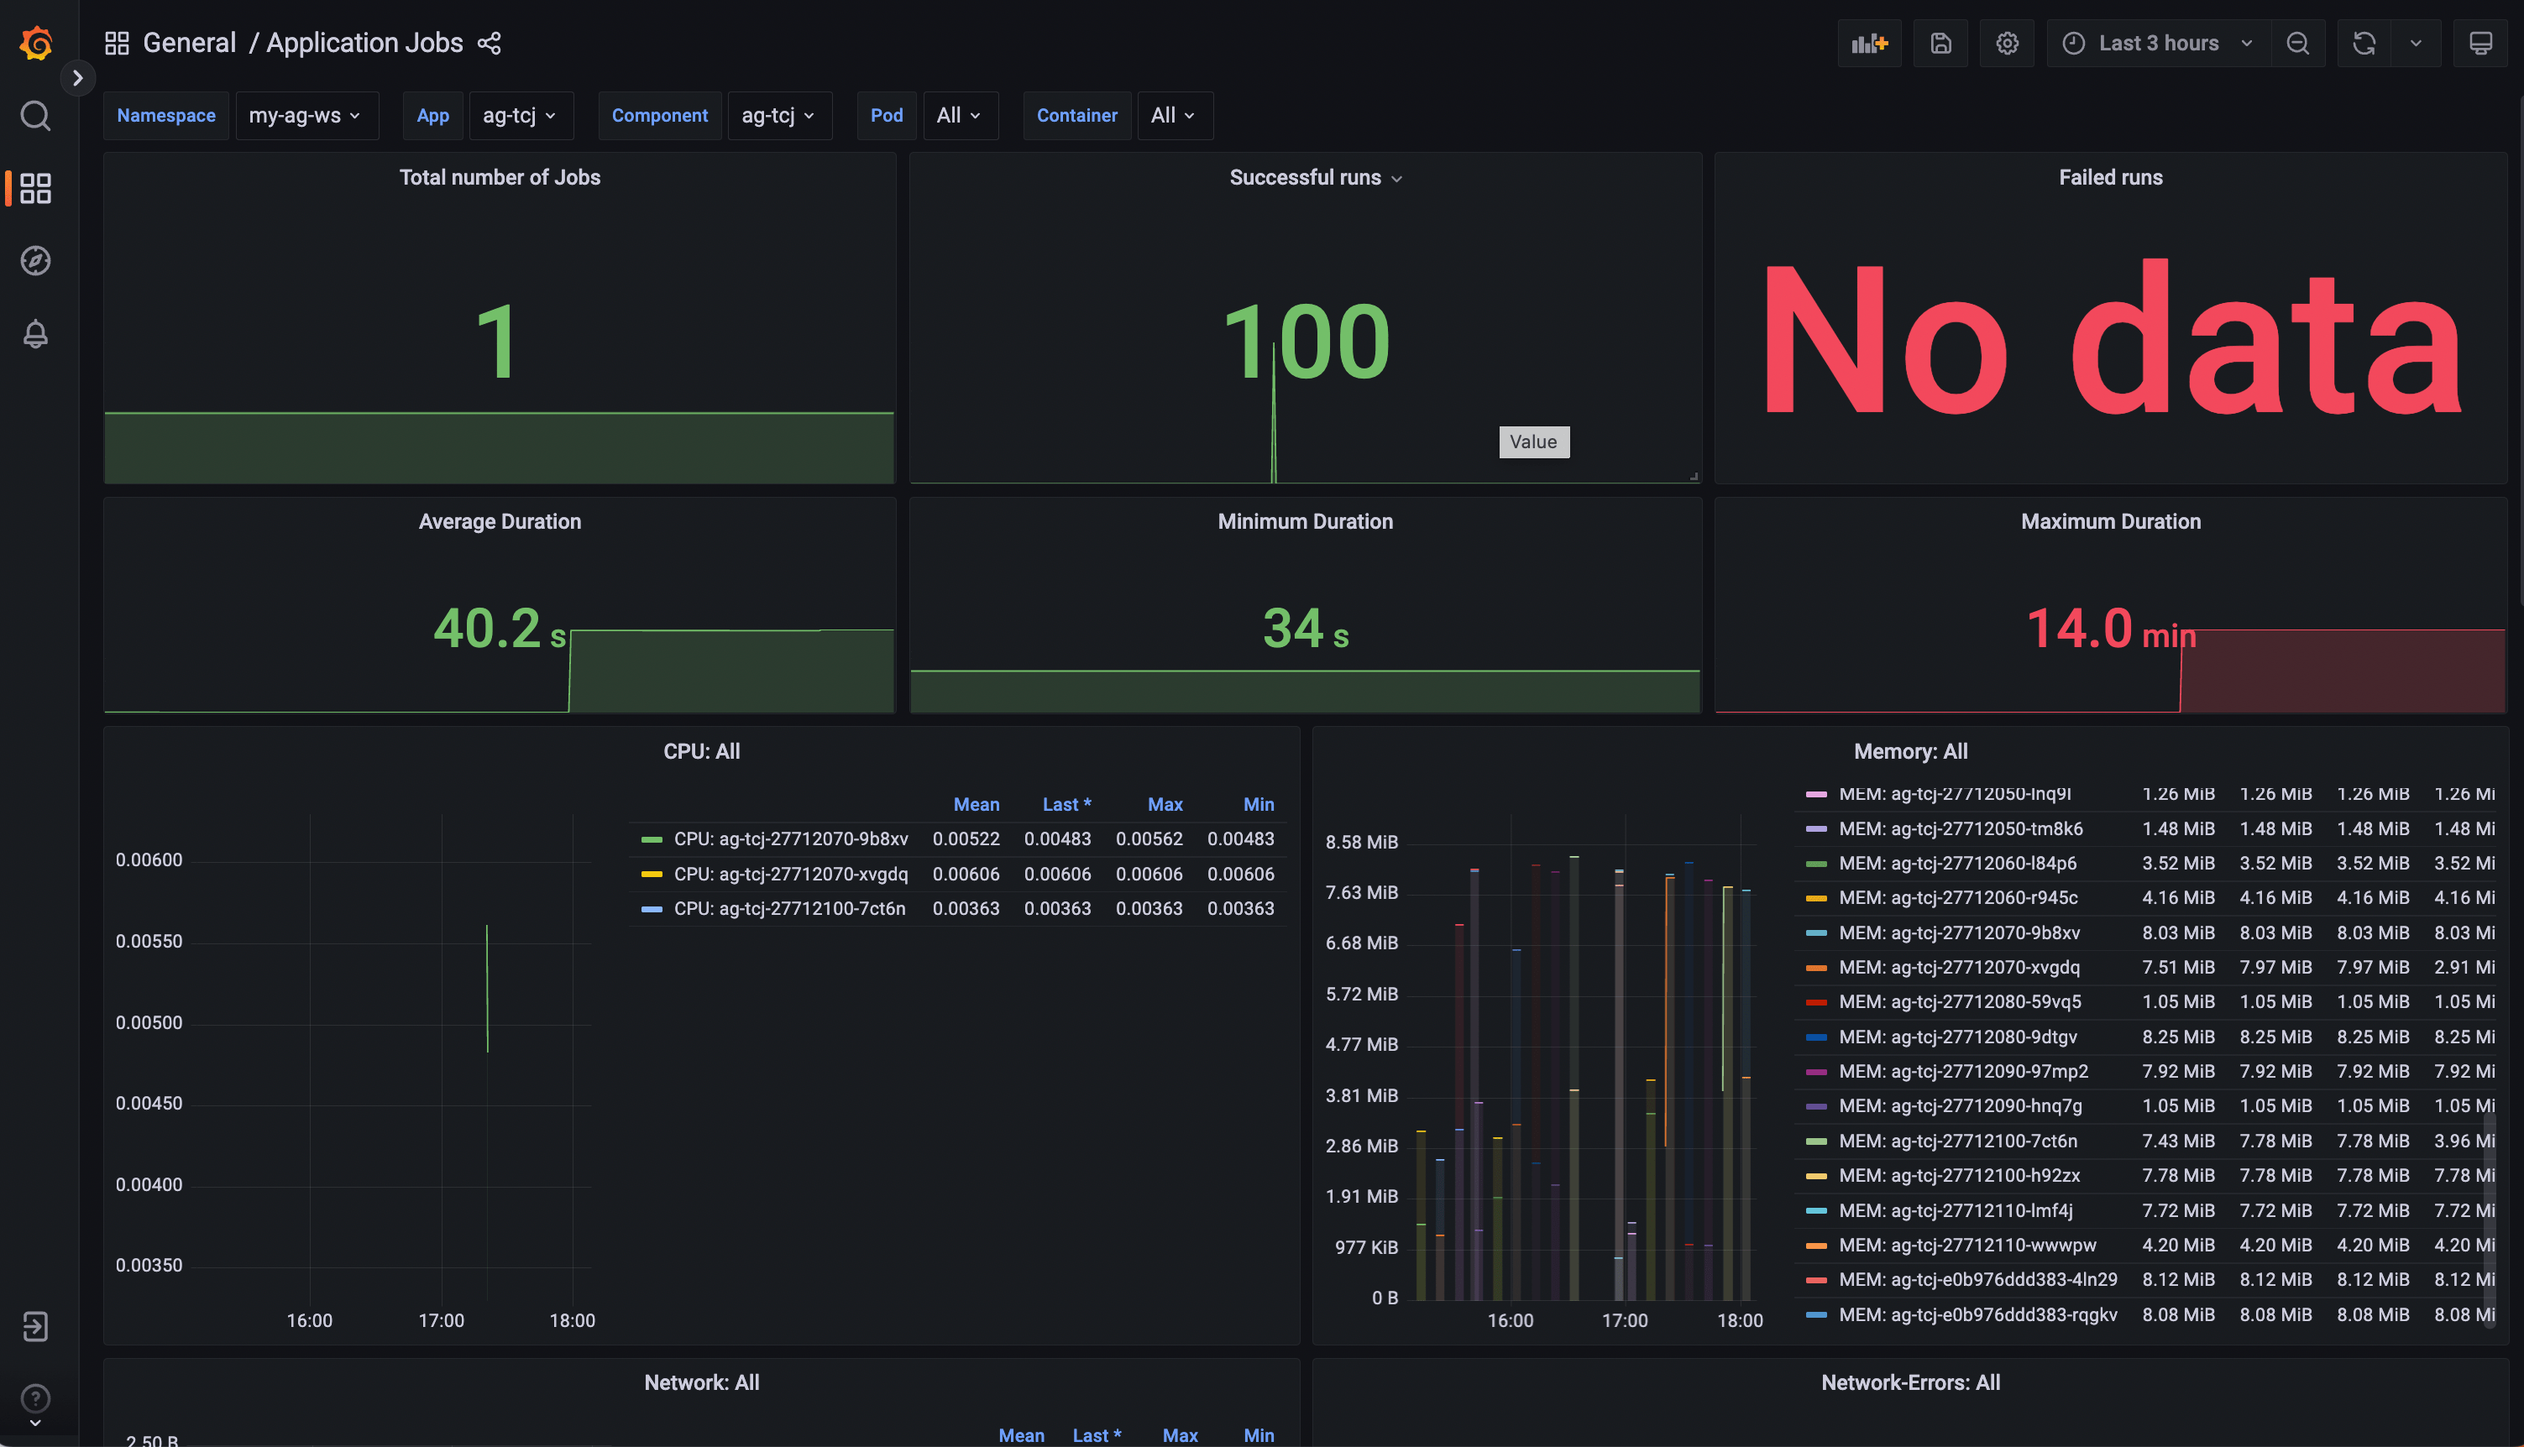
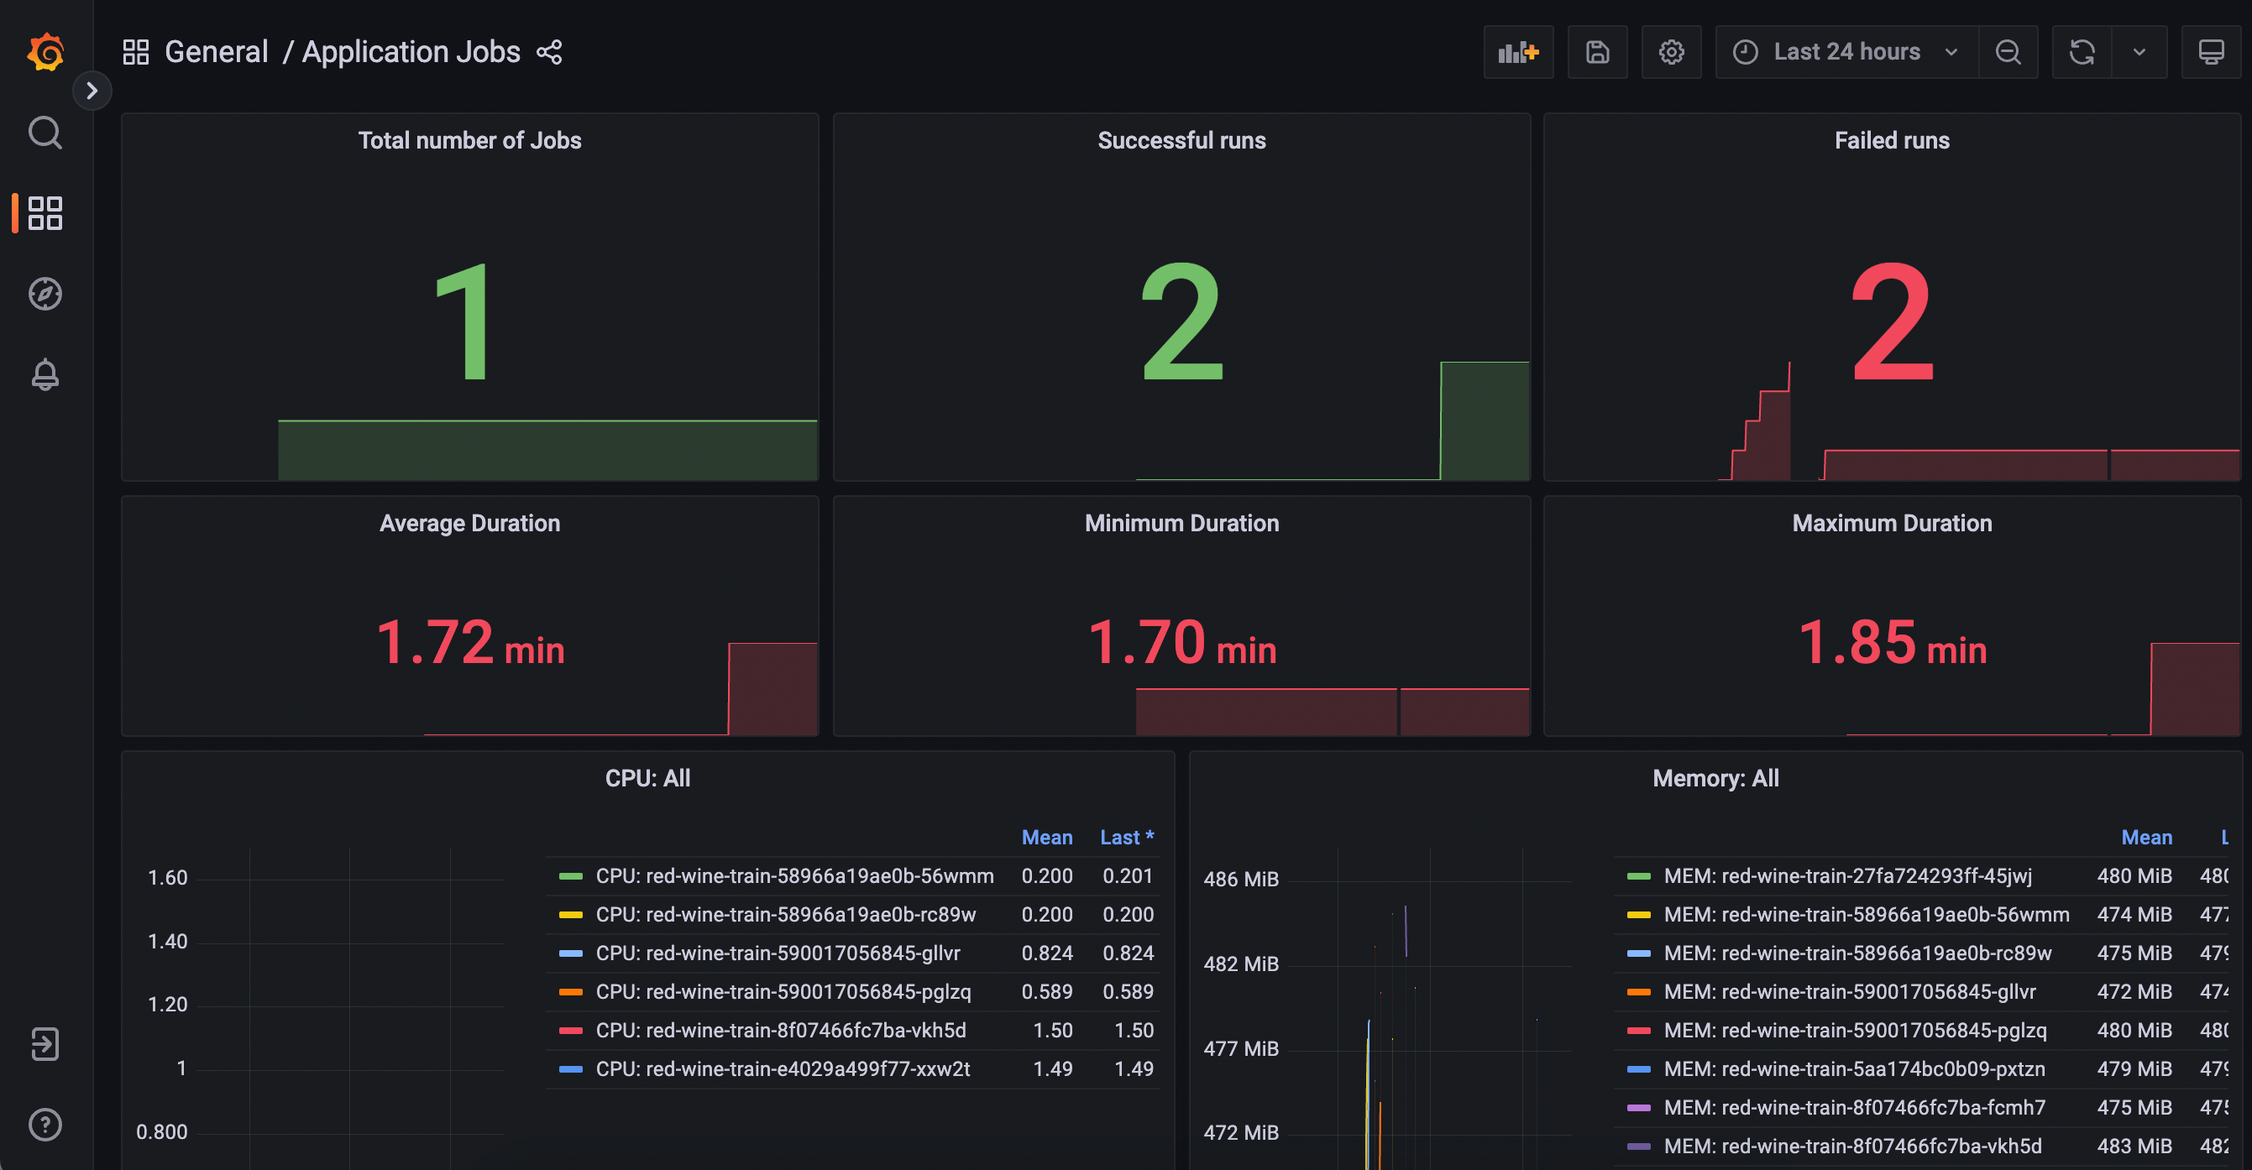
Add screenshots for jobs

diff --git a/deployment/job/monitoring.md b/deployment/job/monitoring.md
@@ -1,10 +1,21 @@
 # Monitor and Debug Job Runs
 
-Truefoundry enables you to monitor your deployed jobs and view the `metrics` on a `grafana dashboard`.
+## Runs History
 
-You can find the link to the dashboard from the truefoundry dashboard on deployments page. 
+We can check the past and ongoing runs of a Job from the Job Details UI.
 
-[//]: # (shall we add image of deployments page here)
+You can find the link to the Job Details from the Truefoundry dashboard on [Deployments](https://app.truefoundry.com/applications) page. 
+
+![job-runs-history](/Users/chiragjn/Pictures/job-runs-history.png)
+
+## Metrics and Logs
+
+Truefoundry enables you to monitor your deployed jobs and view the Metrics and Logs on a [Grafana](https://grafana.com/oss/grafana/) dashboard.
+
+You can find the link to the Job Details from the Truefoundry dashboard on [Deployments](https://app.truefoundry.com/applications) page. 
+
+![Link to Grafana Metrics and Logs](../../assets/job-list.png)
+
 Here is a dashboard of a deployed job.
 
 ![Monitoring a Job](../../assets/monitor-job.png)
@@ -16,10 +27,9 @@ You can monitor the following metrics in the dashboard:
 * **Average Duration** 
 * **Minimum Duration** 
 * **Maximum Duration**
-* **CPU**: CPU usage by the job
-* **Memory**: Memory consumed by the job in MiB
+* **CPU**: CPU utilization by the job
+* **Memory**: Memory consumed by the Job in MiB
 * **Network**: Volume of data transmitted and received by the service.
 * **Disk Usage**: Rate of read and write by the job on disk
 * **Logs**: View Logs of the jobs for different runs
 
-[//]: # (Unit of cpu usage)

diff --git a/deployment/job/deploy.md b/deployment/job/deploy.md
@@ -234,9 +234,13 @@ components:
 
 ## Re-Running a Job manually
 
+We can find the link to the Job Details from the Truefoundry dashboard on [Deployments](https://app.truefoundry.com/applications) page. 
+
+![Jobs List](../../assets/job-list.png)
+
 We can re-trigger a job manually by Clicking the Trigger Job button from the Job Details UI.
 
-TODO: Add screenshot
+![Job Details](../../assets/job-retrigger.png)
 
 ## See Also
 - [Checking Runs History and Monitoring Progress of a Job Run](./monitoring.md)
